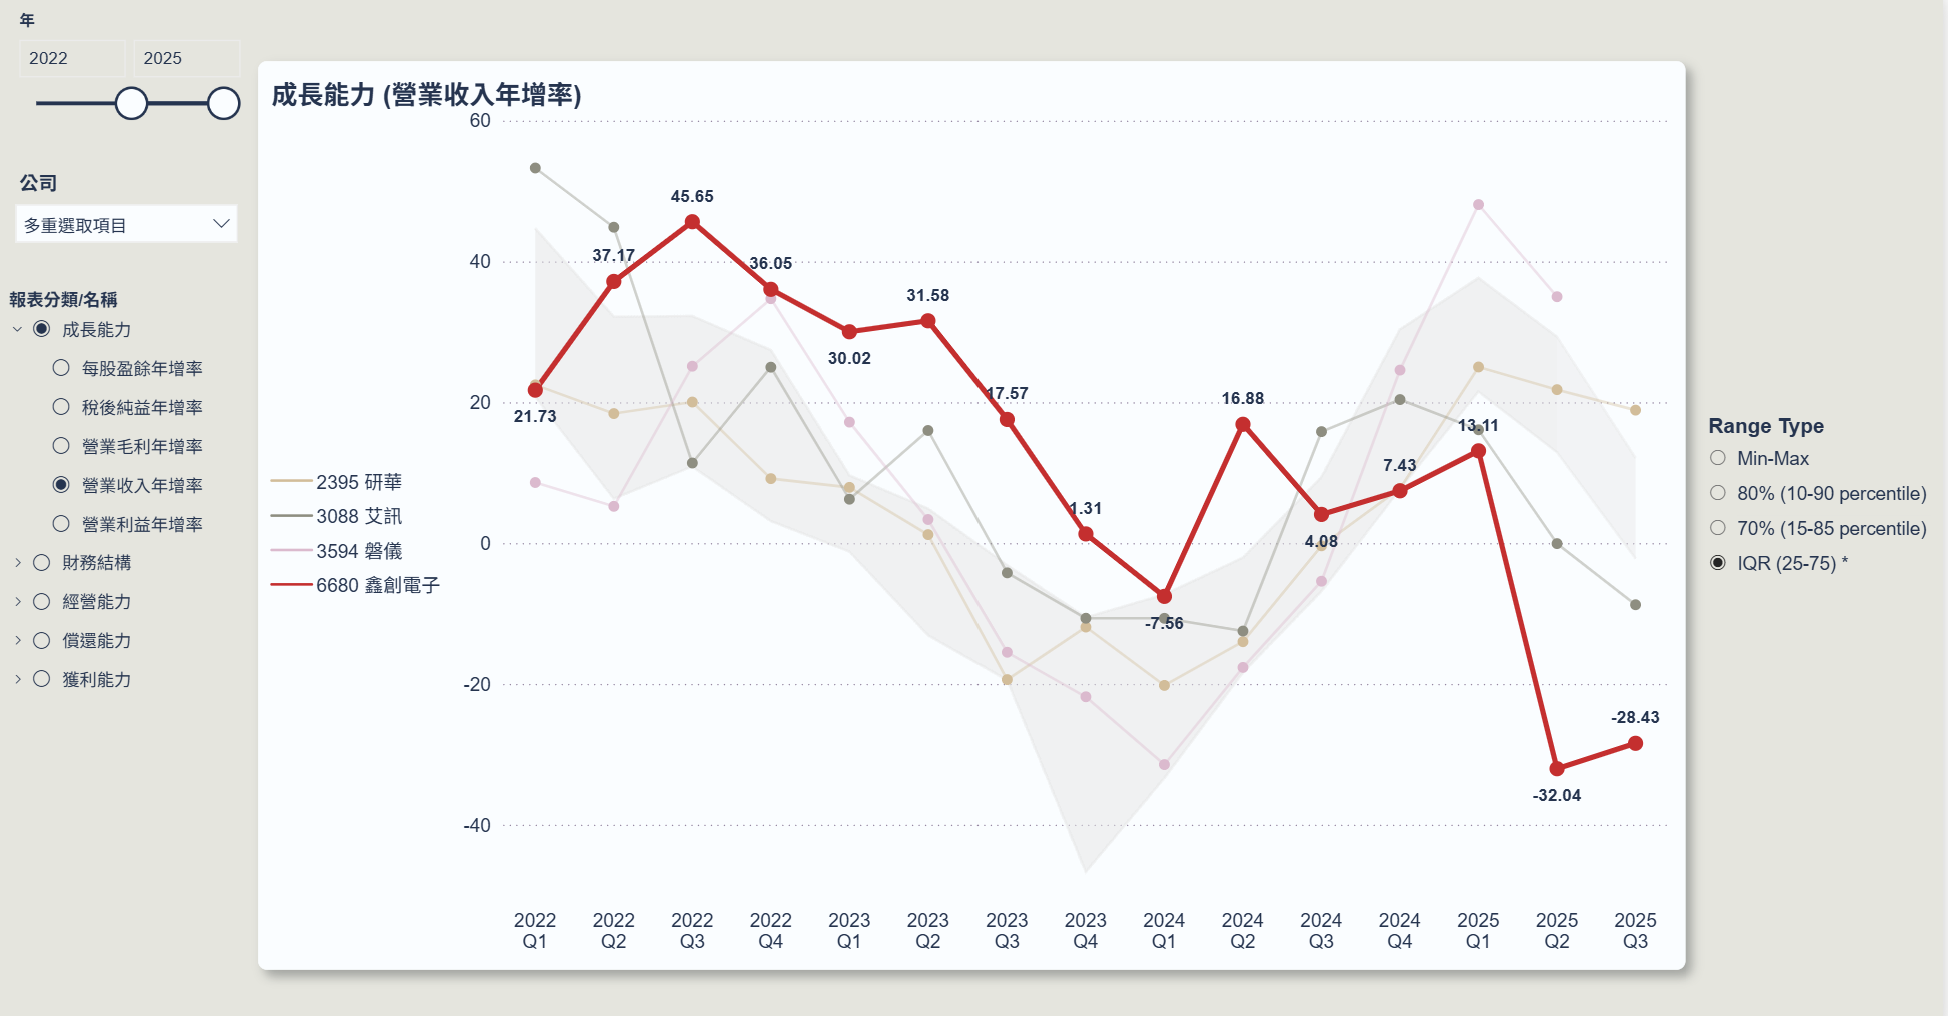
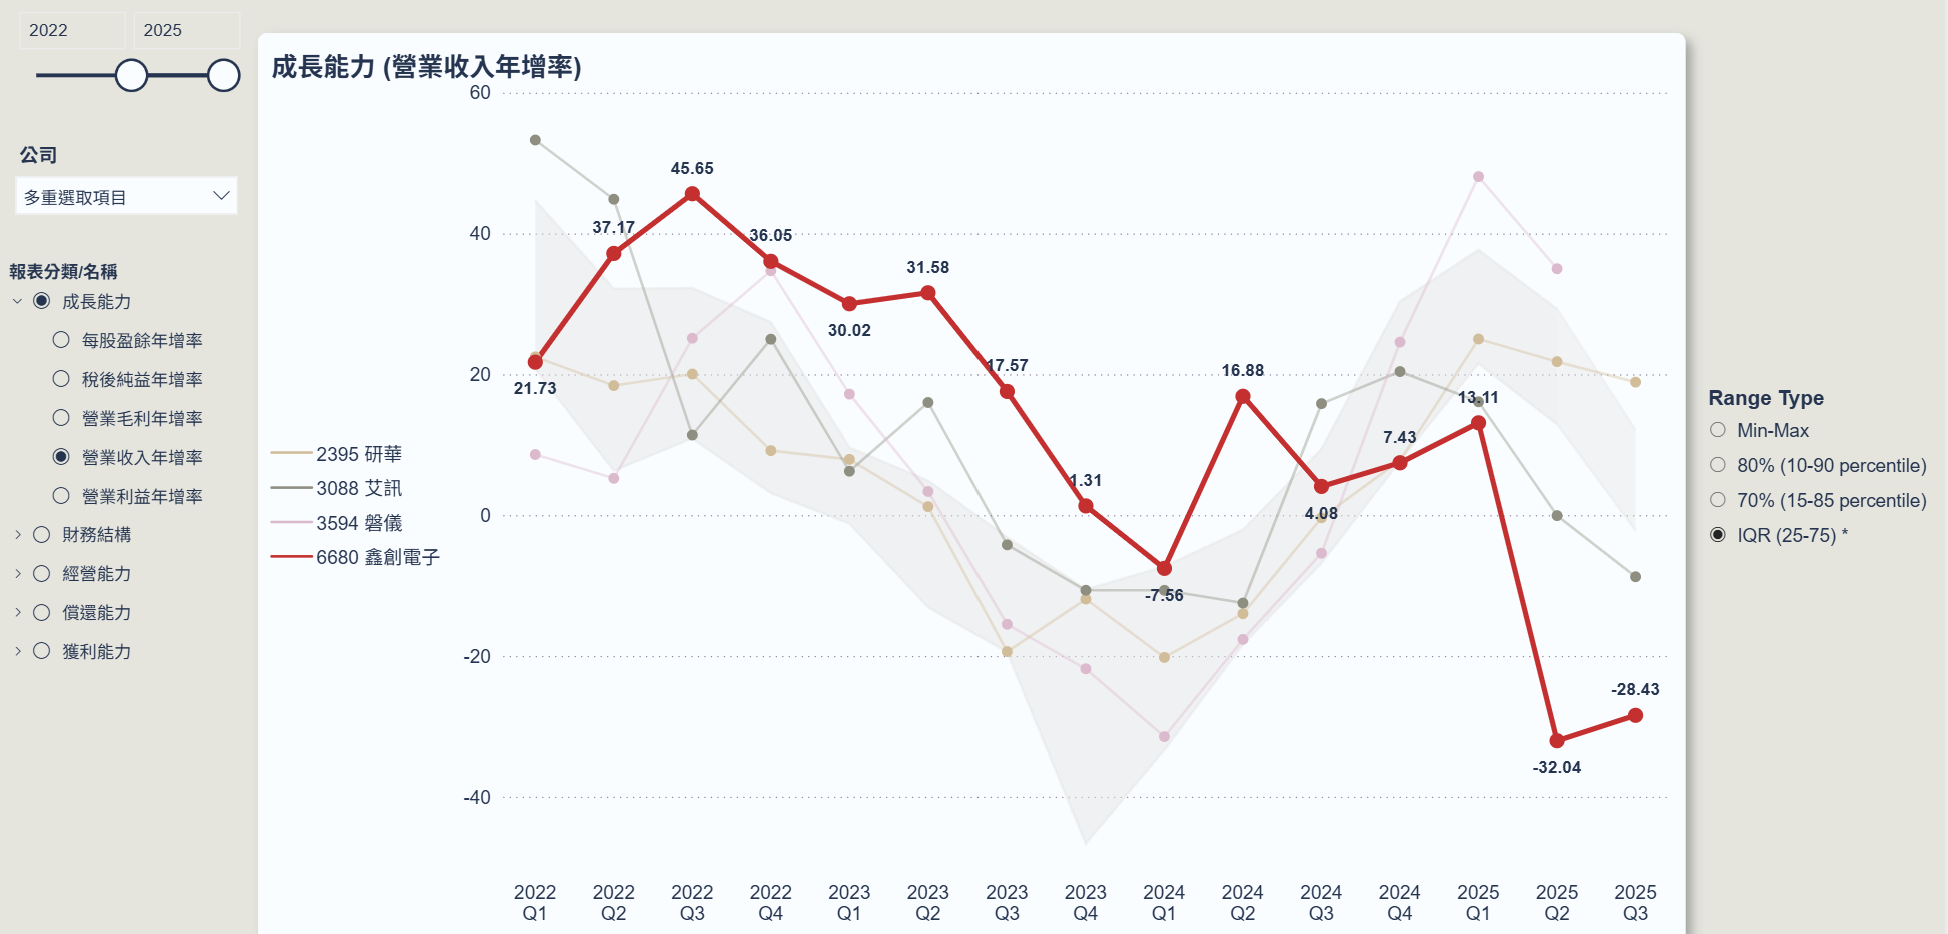
update

diff --git a/_includes/portfolio_grid.html b/_includes/portfolio_grid.html
@@ -54,10 +54,6 @@
                 {% if post.tags contains 'policy' %}
                     <div class="col-md-4 col-sm-6 portfolio-item">
                         <a href="#Modal{{ post.modal-id }}" class="portfolio-link" data-toggle="modal">
-                        <a href="#Modal{{ post.modal-id }}" 
-                        class="portfolio-link" 
-                        data-toggle="modal" 
-                        data-content="{{ site.baseurl }}{{ post.url }}">
                             <div class="portfolio-hover">
                                 <div class="portfolio-hover-content">
                                     <i class="fa fa-plus fa-3x"></i>
@@ -78,44 +74,44 @@
 
 <!-- JavaScript to detect URL fragment and open the modal -->
 <script>
-    //$(document).ready(function() {
-        // Function to check if we're on the portfolio page
-        //function isPortfolioPage() {
-        //    return window.location.pathname.includes('portfolio');
-        //}
+    $(document).ready(function() {
+        //Function to check if we're on the portfolio page
+        function isPortfolioPage() {
+            return window.location.pathname.includes('portfolio');
+        }
 
-        // Function to check if the hash contains a modal ID
-        //function hasModalHash() {
-        //    return window.location.hash && window.location.hash.startsWith('#Modal');
-        //}
+         //Function to check if the hash contains a modal ID
+        function hasModalHash() {
+            return window.location.hash && window.location.hash.startsWith('#Modal');
+        }
 
-        // Check if we're on the portfolio page and has #Modal in the URL
-        //if (isPortfolioPage() && hasModalHash()) {
-        //    var modalId = window.location.hash.substring(1);
-        //    $('#' + modalId).modal('show');
-        //}
+        //Check if we're on the portfolio page and has #Modal in the URL
+        if (isPortfolioPage() && hasModalHash()) {
+            var modalId = window.location.hash.substring(1);
+            $('#' + modalId).modal('show');
+        }
 
-        // Remove the hash from the URL when the modal is closed
-        //$('.portfolio-modal').on('hidden.bs.modal', function () {
-        //   if (isPortfolioPage() && history.pushState) {
-        //        history.pushState(null, null, window.location.pathname + window.location.search);
-        //    } else if (isPortfolioPage()) {
-        //        // Fallback for older browsers
-        //        window.location.hash = '';
-        //    }
-        //});
-    //});
-
-    $('.portfolio-link').on('click', function(e) {
-        e.preventDefault();
-        const modalId = $(this).attr('href');
-        const contentUrl = $(this).data('content');
-
-        // Load content only when needed
-        $(modalId + ' .modal-body').load(contentUrl, function() {
-            $(modalId).modal('show');
+        //Remove the hash from the URL when the modal is closed
+        $('.portfolio-modal').on('hidden.bs.modal', function () {
+           if (isPortfolioPage() && history.pushState) {
+                history.pushState(null, null, window.location.pathname + window.location.search);
+            } else if (isPortfolioPage()) {
+                // Fallback for older browsers
+                window.location.hash = '';
+            }
         });
     });
+
+    //$('.portfolio-link').on('click', function(e) {
+     //   e.preventDefault();
+    //    const modalId = $(this).attr('href');
+    //    const contentUrl = $(this).data('content');
+
+        // Load content only when needed
+    //    $(modalId + ' .modal-body').load(contentUrl, function() {
+    //        $(modalId).modal('show');
+    //    });
+    //});
 </script>
 
 </body>
